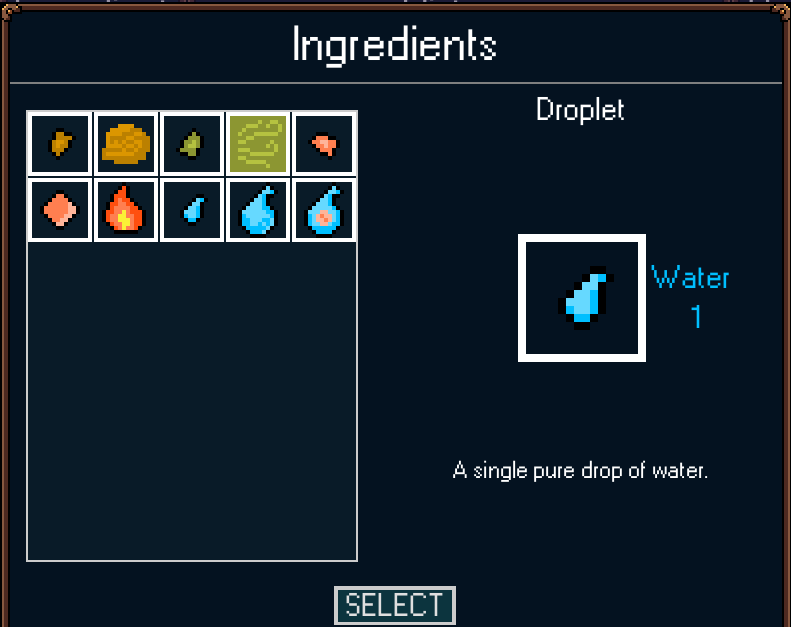
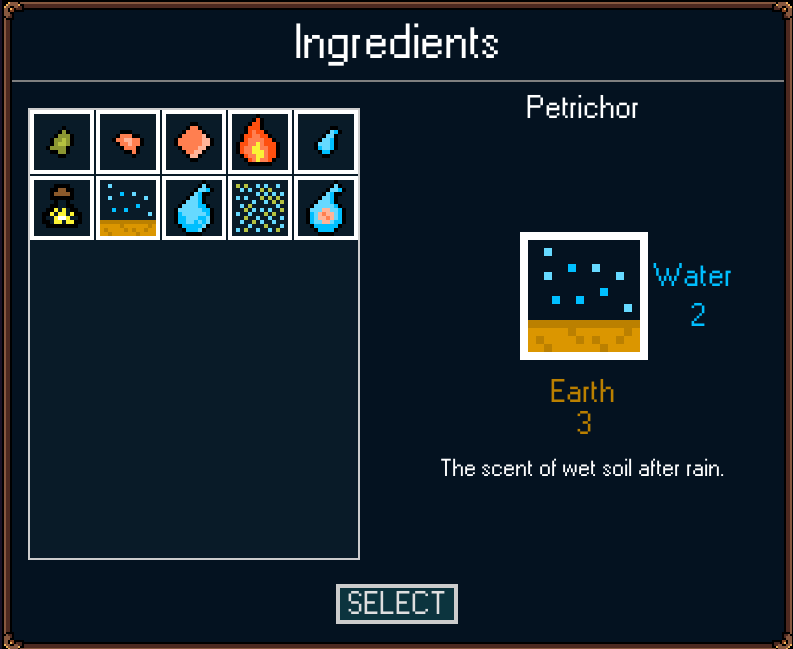
Update README

diff --git a/README.md b/README.md
@@ -20,6 +20,8 @@ The central gameplay loop is:
 
 **Check Almanac for Discoveries → Create Mixture → Discover → Experiment again**
 
+Implementation based on design document: [Github](https://github.com/kamil8jarosz/game-design-portfolio/blob/main/Wizard_Yans_Diary_Remembrance_Alchemy/Alchemy_system_design.pdf)
+
 ## Core Mechanics
 
 ### 1. The Map of Alchemy
@@ -63,12 +65,14 @@ Processing stations provide a way to manipulate ingredient's elemental energy. A
 
 Currently implemented stations:
 - No processing - retains the original energies of the ingredient
-- Null Fire - removes fire energy from ingredient
-- Null Water - removes water energy from ingredient 
+- Nullify Fire - removes fire energy from ingredient
+- Nullify Water - removes water energy from ingredient 
 
 
-![Station](doc/screenshots/station.png)
-Null Fire removes fire energy from Thermal Water.
+![Station](doc/screenshots/station_no_processing.png)
+![Station Fire](doc/screenshots/station_nullify_fire.png)
+![Station Water](doc/screenshots/station_nullify_water.png)
+
 
 ### 3. Mixtures
 
@@ -88,7 +92,7 @@ The mixture's total energies are the sums of the energies contributed by its ent
 
 Discoveries are the primary progression system. They can thought of as quests.
 
-Each discovery is associated with a rectangular area on the alchemy map and an energy requirement.
+Each discovery is associated with a rectangular area on the alchemy map.
 When the mixture contains at least one ingredient, the player can attempt to discover something.
 If the mixure's position is contained by the rectangular area and the energy requirement is 
 satisfied, the Discovery is unlocked.
